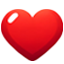
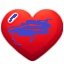
add shield system

diff --git a/core/src/com/hat_quest/MainWork.java b/core/src/com/hat_quest/MainWork.java
@@ -28,6 +28,7 @@ public class MainWork implements Screen {
     private Sound dropSound; // Sound played when a raindrop is caught
     private static Music rainMusic; // Background music
     private Texture enemyDropImage; // Texture for enemy drops
+    private Texture shieldImage;
 
     // Camera and Rendering
     private OrthographicCamera camera; // Camera for the game
@@ -49,6 +50,7 @@ public class MainWork implements Screen {
     private int jumpCount = 0; // Counter for jumps
     private int lives;
     private BonusSystem bonusSystem;
+    private Shield shield;
 
     private Game game;
 
@@ -69,6 +71,7 @@ public class MainWork implements Screen {
         font = new BitmapFont();
         scoreBoard = new ScoreBoard();
         bonusSystem = new BonusSystem("bonus.png");
+        shield = new Shield();
         lives = 3;
     }
 
@@ -104,6 +107,10 @@ public class MainWork implements Screen {
             renderRaindrops();
             renderEnemyDrops();
             bonusSystem.renderBonusDrops(batch);
+            if (shield.isActive()) {
+                renderShield();
+            }
+
         } else {
             font.draw(batch, "Game Over!", 350, 240);
             font.draw(batch, "Press 'R' to Restart", 320, 200);
@@ -150,6 +157,7 @@ public class MainWork implements Screen {
         dropSound = Gdx.audio.newSound(Gdx.files.internal("drop.wav"));
         rainMusic = Gdx.audio.newMusic(Gdx.files.internal("rain.mp3"));
         enemyDropImage = new Texture(Gdx.files.internal("enemy_droplet.png"));
+        shieldImage = new Texture(Gdx.files.internal("shield.png")); // Load shield texture
         rainMusic.setLooping(true);
         rainMusic.play();
     }
@@ -159,6 +167,7 @@ public class MainWork implements Screen {
         camera = new OrthographicCamera();
         camera.setToOrtho(false, 800, 480);
         batch = new SpriteBatch();
+
     }
 
     // Create the bucket object
@@ -195,6 +204,9 @@ public class MainWork implements Screen {
             if (Gdx.input.isKeyJustPressed(Keys.P)) {
                 isPaused = true;
                 rainMusic.pause(); // Pause music
+            }
+            if (Gdx.input.isKeyJustPressed(Keys.F) && shield.canActivate()) {
+                shield.activate();
             }
         } else {
             if (Gdx.input.isKeyPressed(Keys.R)) {
@@ -234,6 +246,7 @@ public class MainWork implements Screen {
 
         updateRaindrops(delta);
         updateEnemyDrops(delta);
+        shield.update();
         bonusSystem.updateBonusDrops(delta, bucket, this);
 
         long timeNow = TimeUtils.nanoTime();
@@ -272,21 +285,22 @@ public class MainWork implements Screen {
 
     // Update enemy drops and handle collisions
     private void updateEnemyDrops(float delta) {
-        if (showDeathScreen) {
-            return;
-        }
         for (Iterator<Rectangle> iter = enemyDrops.iterator(); iter.hasNext();) {
             Rectangle enemyDrop = iter.next();
-            enemyDrop.y -= 200 * delta; // Update enemy drop position
+            enemyDrop.y -= 200 * delta;
             if (enemyDrop.y + 64 < 0) {
-                iter.remove(); // Remove enemy drop if it's below the screen
-            } else if (enemyDrop.overlaps(bucket)) {
-                lives--;
-                if (lives <= 0) {
-                    showDeathScreen = true; // Show death screen if player has no lives left
-                    rainMusic.stop(); // Stop background music
-                }
                 iter.remove();
+            } else if (enemyDrop.overlaps(bucket)) {
+                if (shield.isActive()) {
+                    iter.remove();
+                } else {
+                    lives--;
+                    if (lives <= 0) {
+                        showDeathScreen = true;
+                        rainMusic.stop();
+                    }
+                    iter.remove();
+                }
             }
         }
     }
@@ -309,6 +323,11 @@ public class MainWork implements Screen {
             batch.draw(enemyDropImage, enemyDrop.x, enemyDrop.y);
         }
     }
+
+    private void renderShield() {
+        batch.draw(shieldImage, bucket.x - 10, bucket.y - 10, bucket.width + 20, bucket.height + 20);
+    }
+
 
     // Spawn a new raindrop
     private void spawnRaindrop() {

diff --git a/core/src/com/hat_quest/Shield.java b/core/src/com/hat_quest/Shield.java
@@ -1,0 +1,42 @@
+package com.hat_quest;
+
+import com.badlogic.gdx.utils.TimeUtils;
+
+public class Shield {
+    private boolean active;
+    private long lastActivatedTime;
+    private long activationDuration; // in nanoseconds
+    private long cooldownTime; // in nanoseconds
+
+    public Shield() {
+        this.active = false;
+        this.activationDuration = 10 * 1000000000L; // 10 seconds
+        this.cooldownTime = 120 * 1000000000L; // 120 seconds
+        this.lastActivatedTime = TimeUtils.nanoTime() - cooldownTime; // Initialize so it can be activated immediately
+    }
+
+    public boolean isActive() {
+        return active;
+    }
+
+    public void activate() {
+        if (canActivate()) {
+            active = true;
+            lastActivatedTime = TimeUtils.nanoTime();
+        }
+    }
+
+    public void update() {
+        if (active && TimeUtils.nanoTime() - lastActivatedTime > activationDuration) {
+            active = false;
+        }
+    }
+
+    public boolean canActivate() {
+        return TimeUtils.nanoTime() - lastActivatedTime > cooldownTime;
+    }
+
+    public long getCooldownRemaining() {
+        return (cooldownTime - (TimeUtils.nanoTime() - lastActivatedTime)) / 1000000000L;
+    }
+}
